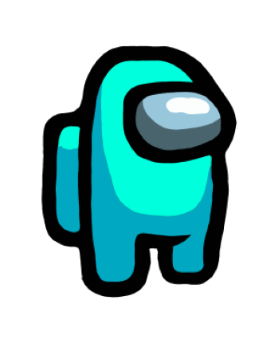
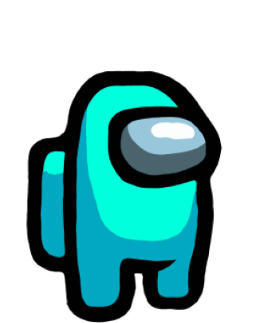
asdfasdf

diff --git a/Rotoscope/MovieMaker.cs b/Rotoscope/MovieMaker.cs
@@ -118,10 +118,13 @@ namespace Rotoscope
         private SolidBrush drawBrush = new SolidBrush(Color.Red);
         private string processing = "";
         //physics animation stuff
-        private int guyX = 1;
-        private int guyY = 1;
+        private int logoX = 1;
+        private int logoY = 1;
         private int speedX = 180;
         private int speedY = 180;
+
+        private int guyX = -260;
+        private int guyY = 0;
 
         #endregion
 
@@ -703,39 +706,43 @@ namespace Rotoscope
 
             Bitmap imposter = Properties.Resources.amongUsGuyPic;
             imposter.SetResolution(g.DpiX, g.DpiY);
-            g.DrawImage(imposter, 0, 720 - imposter.Height);
+            guyY = height - imposter.Height;
 
             //PHYSICS******************************************
             Bitmap eliCool = Properties.Resources.eliCool;
             eliCool.SetResolution(g.DpiX, g.DpiY);
-            guyX = guyX + (speedX / 30);
-            guyY = guyY + (speedY / 30);
+            logoX = logoX + (speedX / 30);
+            logoY = logoY + (speedY / 30);
 
-            if(guyX + eliCool.Width >= width)
+            if(logoX + eliCool.Width >= width)
             {
                 speedX *= -1;
-                guyX = width - eliCool.Width;
+                logoX = width - eliCool.Width;
             }
-            else if(guyX <= 0)
+            else if(logoX <= 0)
             {
                 speedX *= -1;
-                guyX = 0;
+                logoX = 0;
             }
 
-            if(guyY + eliCool.Height >= height)
+            if(logoY + eliCool.Height >= height)
             {
                 speedY *= -1;
-                guyY = height - eliCool.Height;
+                logoY = height - eliCool.Height;
 
             }
-            else if(guyY <= 0)
+            else if(logoY <= 0)
             {
                 speedY *= -1;
-                guyY = 0;
+                logoY = 0;
             }
-            g.DrawImage(eliCool, guyX, guyY);
+            g.DrawImage(eliCool, logoX, logoY);
 
-
+            if(time > 19 && guyX < 10)
+            {
+                guyX += speedX/30;
+            }
+            g.DrawImage(imposter, guyX, guyY);
             //ending drawing
             if (time > 28.5)
             {
